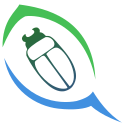
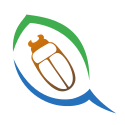
Change look and fix left menu

Changed region(s): [[0.0, 0.024, 0.768, 0.744], [0.024, 0.456, 0.984, 0.984]]

diff --git a/inst/app/www/style.css b/inst/app/www/style.css
@@ -1,3 +1,4 @@
+@import url('https://fonts.googleapis.com/css2?family=Martel:wght@200;300;400;600;700;800;900&display=swap');
 
 #closebtn{
   float:right;
@@ -14,7 +15,7 @@
 }
 
 .blue-badge{
-  background-color:#4190e0;
+  background-color:#2571bb;
   color:white;
   padding:12px;
   border-radius:7px;
@@ -30,16 +31,24 @@
 
 .dash-title{
   float:left;
-  font-family:"Montserrat,Arial";
-  margin-top:15px;
+  font-family:"Martel";
+  margin-top:25px;
   font-size:20px;
-  font-weight:bold;
+  font-weight:800;
   
 }
 
 .left-header{
   position: relative;
-  height:60px;
+  height:80px;
+  width:450px;
+  background-color: #ffffffdd;
+  margin:10px auto;
+  border-radius:8px;
+}
+
+.left-header img{
+  height:70px;
 }
 
 .widget-div{
@@ -47,5 +56,11 @@
   border-radius:7px;
   border:1px solid #ececec;
   margin:5px;
+}
+
+.top-header{
+  background: rgb(64,174,78);
+  background: linear-gradient(90deg, rgba(64,174,78,1) 14%, rgba(37,113,187,1) 99%);
+  height:90px;
 }
 

diff --git a/inst/app/www/tableau.js b/inst/app/www/tableau.js
@@ -1,17 +1,21 @@
 (function($) {
 $(document).ready(function(){
+  var openclosed="open"
+  $("#closebtn").html('&#9664;');
   $('#closebtn').on('click',function(){
-    divs=$("#main-row").children();
-    if($(divs[0]).css('margin-left') == "-22vw"){
-      $(divs[0]).css('margin-left',0);
-      $(divs[1]).css('width',"80vw");
+    var divs=$("#main-row").children();
+    if(openclosed=="closed"){
+      openclosed="open"
+      $(divs[0]).animate({'margin-left':0});
+      $(divs[1]).animate({'width':"80vw"});
       $("#map").width("80vw");
-      $("#closebtn").html('<');
+      $("#closebtn").html('&#9664;');
     }else{
-      $(divs[0]).css('margin-left',"-22vw");
-      $(divs[1]).css('width',"96vw");
+      openclosed="closed"
+      $(divs[0]).animate({'margin-left':"-23vw"});
+      $(divs[1]).animate({'width':"96vw"});
       $("#map").width("96vw");
-      $("#closebtn").html('>');
+      $("#closebtn").html('&#9654;');
     }
   });
 });
